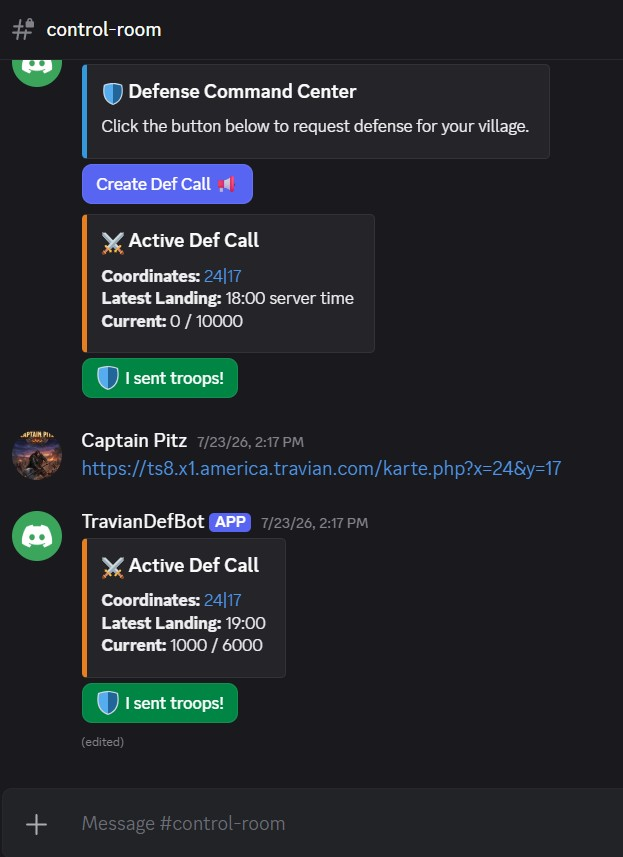
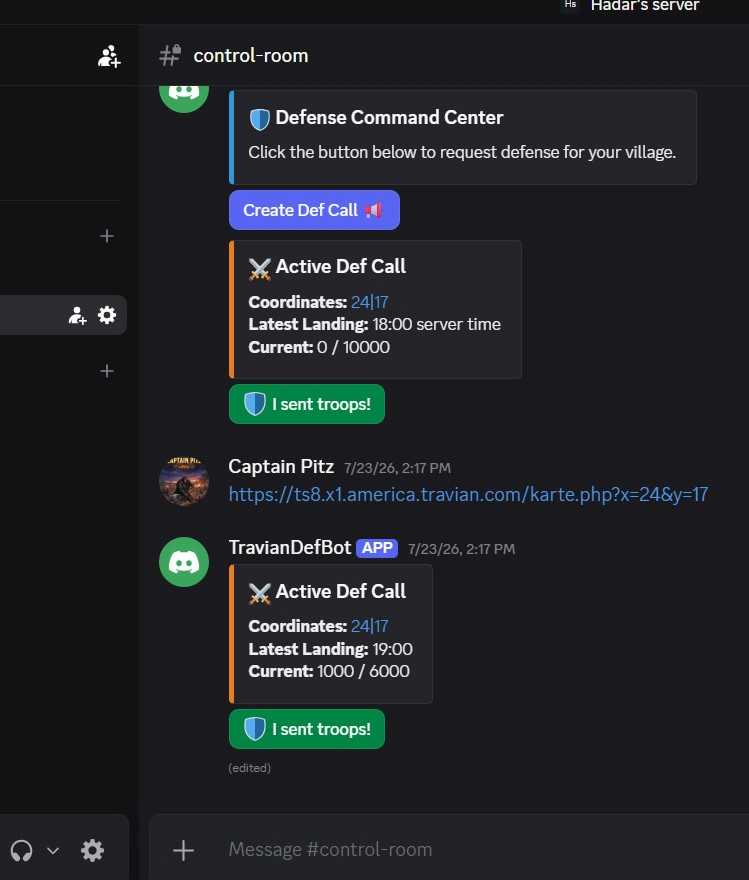
add README

Changed region(s): [[0.0, 0.0, 0.9454, 0.8798], [0.0, 0.9405, 0.5795, 1.0], [0.7929, 0.0, 0.9454, 0.0303]]

diff --git a/app/README.md b/app/README.md
@@ -1,0 +1,76 @@
+# Hadar Harush | Personal Portfolio
+
+A modern, responsive personal portfolio website designed to showcase my recent projects, technical skills, and experience as a Lead Full-Stack Developer. Built with a focus on smooth animations, clean UI/UX, and high performance.
+
+![Portfolio Preview](./public/images/jseed.jpeg) <!-- You can change this to a screenshot of the actual portfolio later -->
+
+## 🚀 Live Demo
+[Link to your live website] (e.g., https://hadar-portfolio.vercel.app)
+
+## 💻 Tech Stack
+
+- **Framework:** [Next.js](https://nextjs.org/) (App Router)
+- **Library:** [React](https://reactjs.org/)
+- **Styling:** [Tailwind CSS](https://tailwindcss.com/)
+- **Animations:** [Framer Motion](https://www.framer.com/motion/)
+- **Icons:** [Lucide React](https://lucide.dev/)
+- **Language:** TypeScript / JavaScript
+- **Deployment:** Vercel / Cloudflare Pages
+
+## ✨ Features
+
+- **Modern UI/UX:** Midnight dark theme with glassmorphism elements, soft glow effects, and gradient typography.
+- **Smooth Animations:** Integrated Framer Motion for scroll-triggered reveal animations, staggered list rendering, and interactive hover states.
+- **Fully Responsive:** Mobile-first approach ensuring a seamless experience across all devices (Desktop, Tablet, Mobile).
+- **Dynamic Project Showcase:** Optimized image rendering using Next.js `<Image />` component with error handling fallbacks.
+- **Fast Performance:** Server-Side Rendering (SSR) and optimized asset delivery via Next.js.
+
+## 🛠 Getting Started
+
+To run this project locally, follow these steps:
+
+### Prerequisites
+Make sure you have [Node.js](https://nodejs.org/) installed on your machine.
+
+### Installation
+
+1. Clone the repository:
+   ```bash
+   git clone [https://github.com/HadarLiel/portfolio.git](https://github.com/HadarLiel/portfolio.git)
+
+2. Navigate to the project directory:
+    ```Bash
+    cd portfolio
+
+3. Install the dependencies:
+    ```Bash
+    npm install
+
+4. Start the development server:
+    ```Bash
+    npm run dev
+    Open http://localhost:3000 in your browser to see the result.
+
+📂 Folder Structure
+    Plaintext
+    ├── public/
+    │   └── images/          # Project screenshots and assets
+    ├── src/
+    │   ├── app/
+    │   │   ├── globals.css  # Global styles and Tailwind imports
+    │   │   ├── layout.tsx   # Root layout and metadata
+    │   │   └── page.tsx     # Main portfolio content and animations
+    ├── package.json         # Project dependencies and scripts
+    └── tailwind.config.ts   # Tailwind CSS configuration
+
+
+📞 Contact & Links
+    LinkedIn: Hadar Liel Harush
+
+    GitHub: HadarLiel
+
+    WhatsApp: Let's Chat
+
+    Email: hadarharush5@gmail.com
+
+    Designed and built by Hadar Liel Harush.
